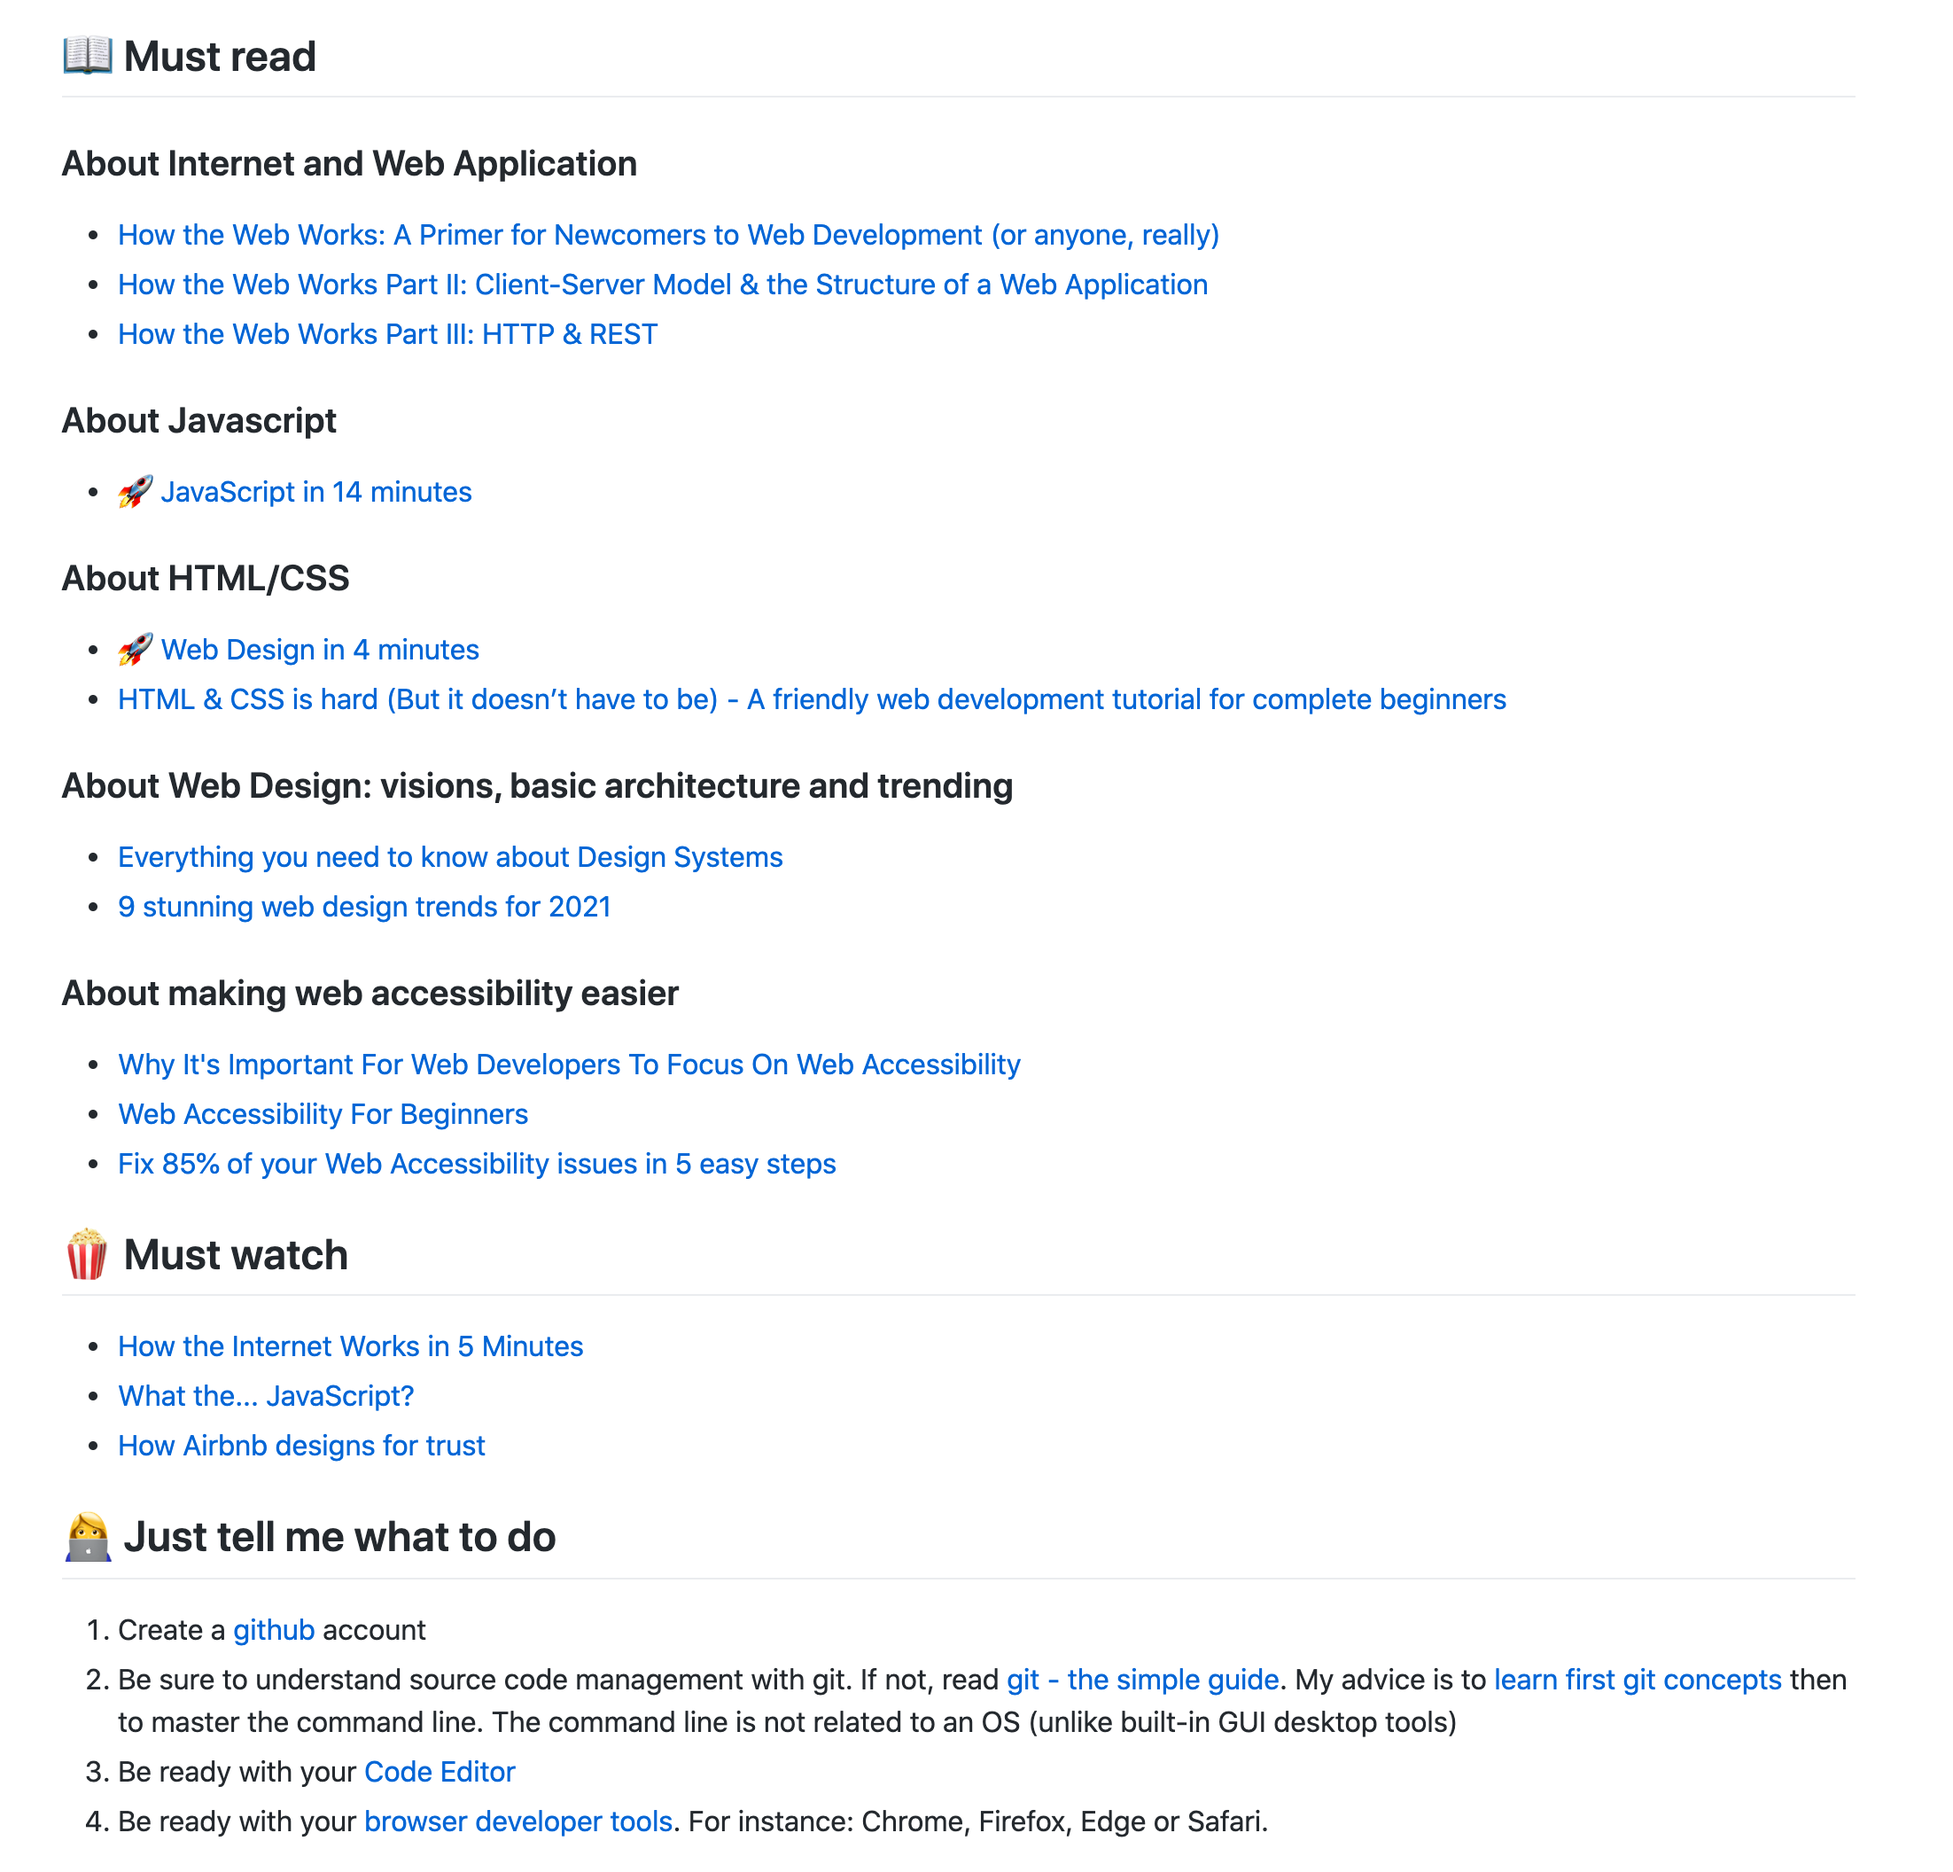
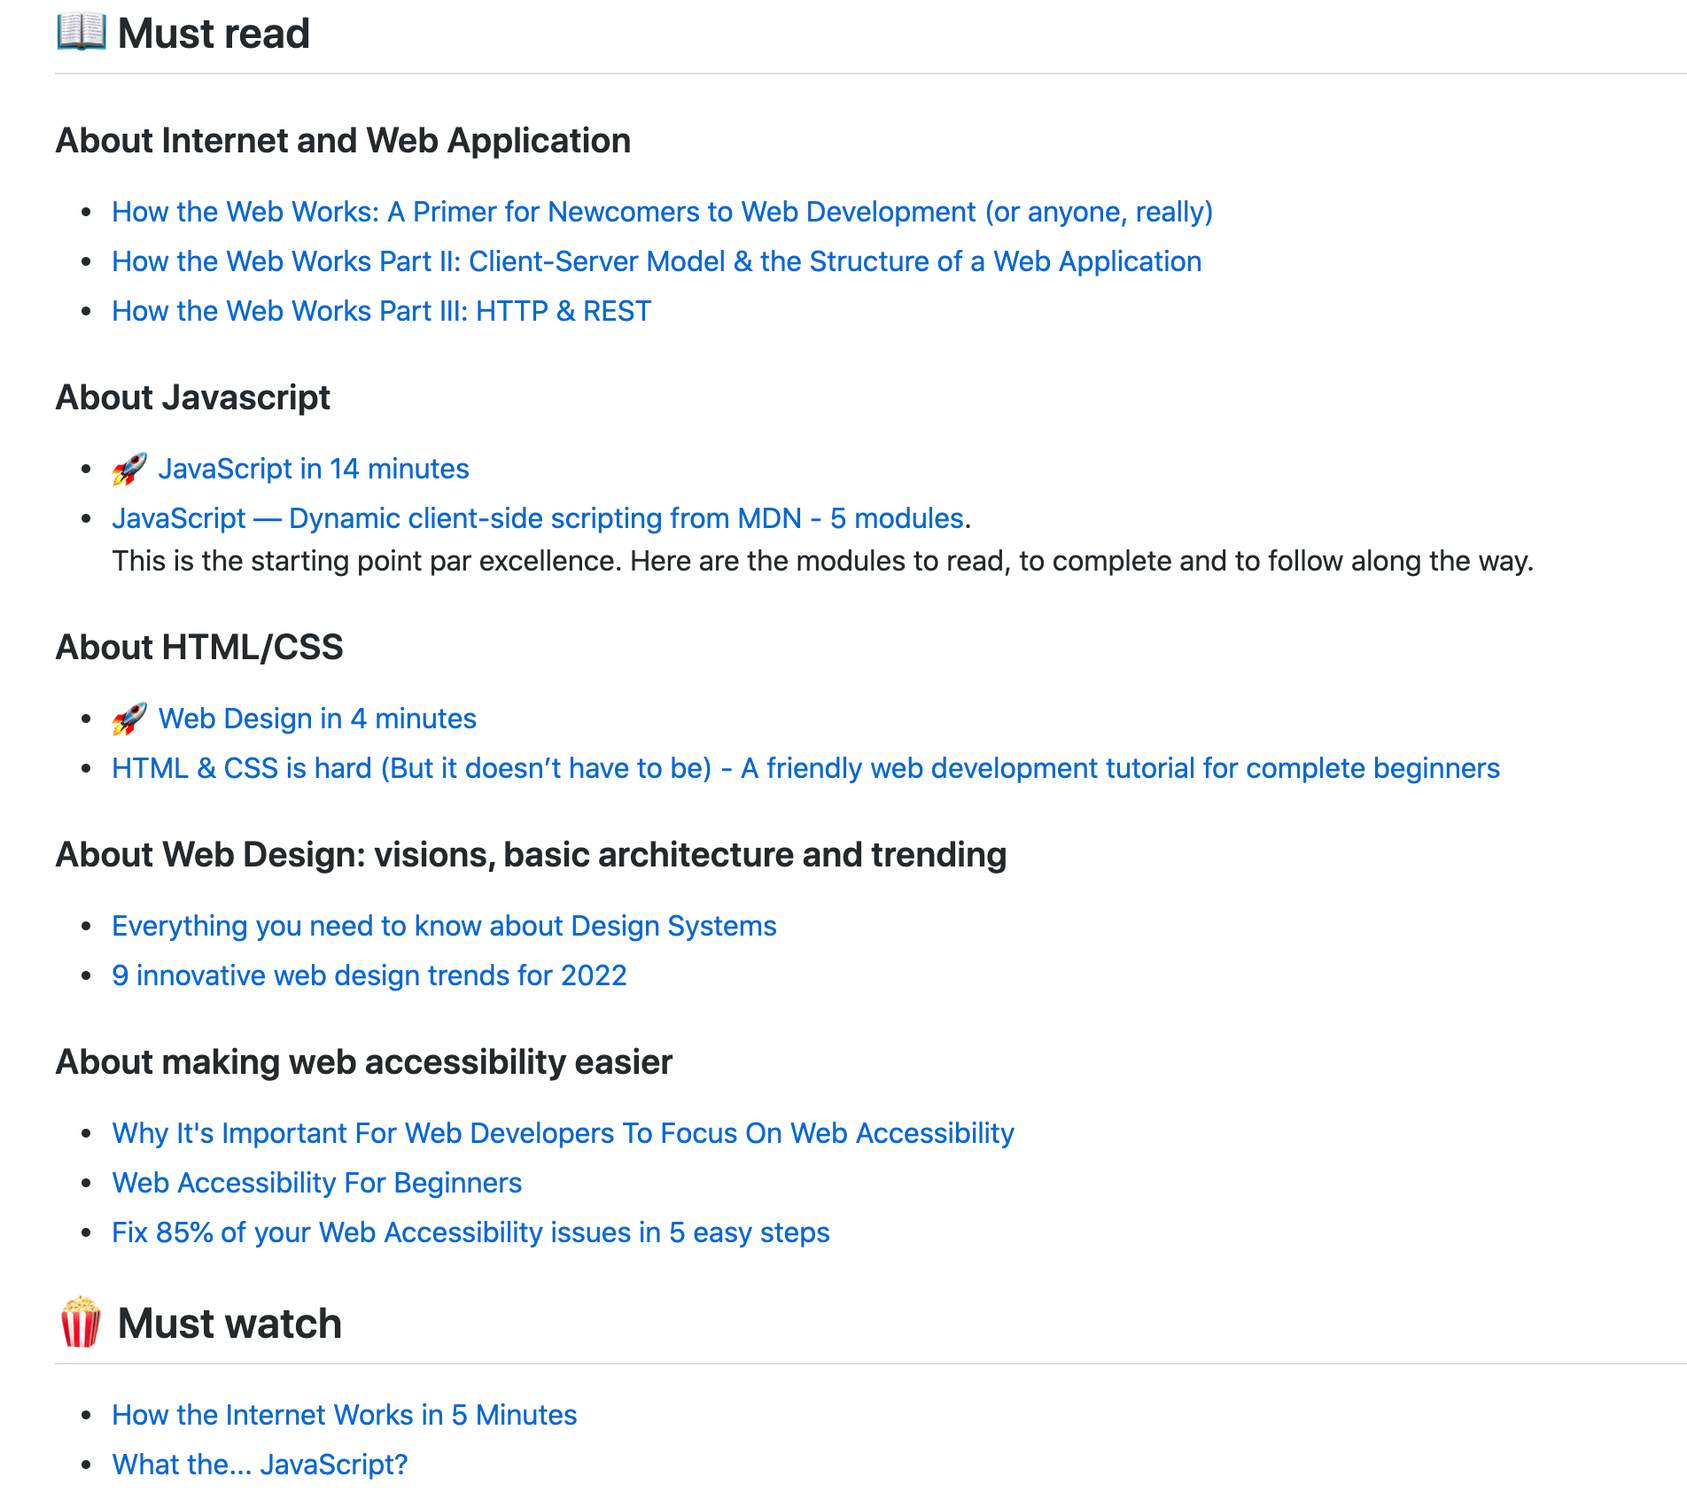
docs(slides): update for 2022 courses

Changed region(s): [[0.031, 0.0, 0.8986, 0.8337], [0.031, 0.8646, 0.9606, 0.9881]]

diff --git a/5-MINUTES.md b/5-MINUTES.md
@@ -2,7 +2,7 @@
 title: "The 5 minutes introduction | JavaScript Empire"
 ---
 
-2016, 2017, 2018, 2019, ~~2020~~, 2021
+2016, 2017, 2018, 2019, ~~2020~~, 2021, 2022
 
 ---
 
@@ -26,10 +26,6 @@ YEEZY
 
 ---
 
-Hype sneakers
-
-----
-
 💰
 
 Grey market
@@ -46,7 +42,13 @@ Grey market
 
 ---
 
-350 $
+600 $
+
+---
+
+stockx.com
+
+A stock exchange of things
 
 ---
 
@@ -58,47 +60,55 @@ Grey market
 
 <!-- .slide: data-background="#d8d8d6" -->
 
-![hu](./img/cement.png)
+![hu](./img/mona-lisa.jpeg)
 
 ---
 
-200 $
+Virgil Abloh x IKEA MARKERAD "MONA LISA"
 
 ---
 
-475 $
+99 $
 
 ---
 
-<!-- .slide: data-background="#d8d8d6" -->
-
-![hu-stockx](./img/cement-stockx.png)
-
----
-
-<!-- .slide: data-background="#d8d8d6" -->
-
-![gold](./img/ochre.png)
-
----
-
-160 $
-
----
-
-310 $
+250 $
 
 ---
 
 <!-- .slide: data-background="#d8d8d6" -->
 
-![gold-stockx](./img/ochre-stockx.png)
+![mona-lisa-stockx](./img/mona-lisa-stockx.png)
+
+---
+
+<!-- .slide: data-background="#d8d8d6" -->
+
+![boba-fett](./img/boba-fett.png)
+
+---
+
+LEGO Brick Headz Boba Fett & Han Solo
+
+---
+
+40 $
+
+---
+
+260 $
+
+---
+
+<!-- .slide: data-background="#d8d8d6" -->
+
+![/boba-fett-stockx](./img//boba-fett-stockx.png)
 
 ---
 
 Profit
 
-~ 555 $
+~ 751 $
 
 ---
 
@@ -108,7 +118,7 @@ Profit
 
 <!-- .slide: data-background="#21232d" -->
 
-<p style="background-color: #d8d8d6;color:#21232d">6.6660 $ / hr</p>
+<p style="background-color: #d8d8d6;color:#21232d">9.012 $ / hr</p>
 
 ---
 
@@ -189,7 +199,7 @@ Yes and No
 
 ---
 
-22 years ago
+23 years ago
 
 Esilv 1999
 
@@ -211,9 +221,9 @@ Director of Front-End Engineering
 
 ---
 
-1.5 years
+2.5 years
 
-Senior Engineering Manager
+Dir. of Engineering
 
 💳 PayFit
 
@@ -419,19 +429,19 @@ If you have just 30 minutes in your student busy life.
 
 ---
 
-📖 Must Read
+📖 **Must Read**
 
 Useful links to read as blog post
 
 ---
 
-🍿 Must Watch
+🍿 **Must Watch**
 
 talk or podcast for passive context
 
 ---
 
-👩💻 Just tell me what to do
+👩💻 **Just tell me what to do**
 
 To be ready the workshop day
 
